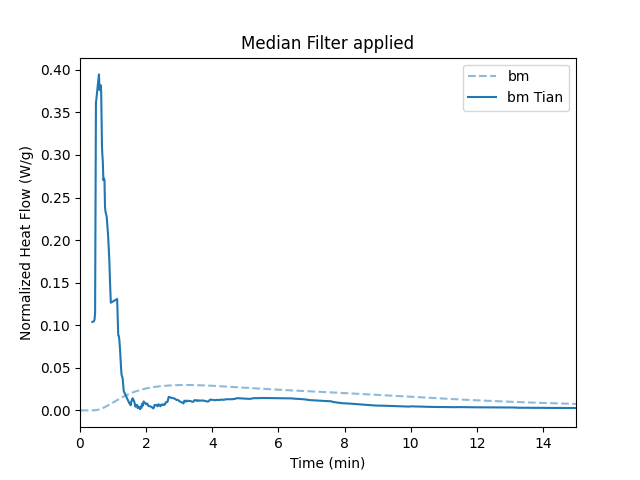
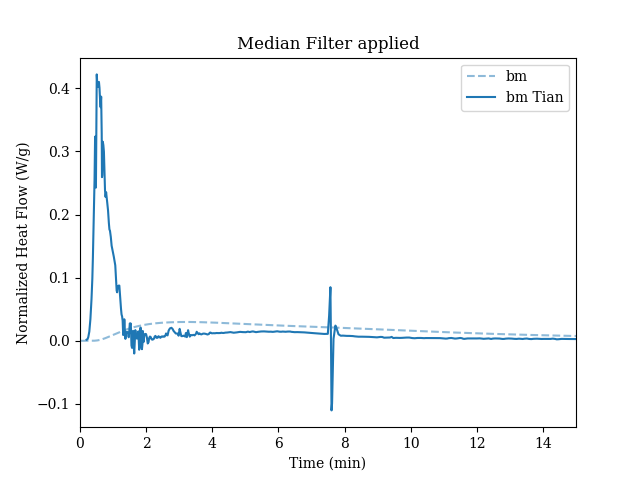
updated asset files

diff --git a/calocem/measurement.py b/calocem/measurement.py
@@ -23,7 +23,7 @@ from .analysis import (
     PeakAnalyzer,
     SlopeAnalyzer,
 )
-from .data_processing import DataCleaner, DataNormalizer, MetadataAggregator, SampleIterator
+from .data_processing import DataCleaner, DataNormalizer, HeatFlowProcessor, MetadataAggregator, SampleIterator
 from .exceptions import AutoCleanException, ColdStartException, DataProcessingException
 from .file_io import DataPersistence, FolderDataLoader
 from .plotting import SimplePlotter
@@ -1651,6 +1651,60 @@ class Measurement:
         self._data = DataNormalizer.normalize_sample_to_mass(
             self._data, sample_short, mass_g, show_info
         )
+
+    def apply_tian_correction(
+        self, processparams: Optional[ProcessingParameters] = None
+    ) -> None:
+        """
+        Apply Tian correction to the heat flow data.
+
+        Corrects the measured heat flow for the thermal inertia of the calorimeter
+        using one or two time constants (tau1, tau2) from processparams.
+
+        Single time constant (tau2 = None):
+            hf_corrected = dHF/dt * tau1 + HF
+
+        Dual time constants:
+            hf_corrected = dHF/dt * (tau1 + tau2) + d²HF/dt² * tau1*tau2 + HF
+
+        Results are written to three new columns:
+        - ``normalized_heat_flow_w_g_tian``
+        - ``gradient_normalized_heat_flow_w_g``
+        - ``normalized_heat_j_g_tian``
+
+        Parameters
+        ----------
+        processparams : ProcessingParameters, optional
+            Processing parameters containing time_constants.tau1 and
+            time_constants.tau2. Uses instance processparams if not provided.
+        """
+        from scipy import integrate
+
+        if processparams is None:
+            processparams = self._processparams
+
+        for s, sample_data in SampleIterator.iter_samples(self._data):
+            processor = HeatFlowProcessor(processparams)
+            gradient, curvature = processor.calculate_heatflow_derivatives(sample_data)
+
+            hf = sample_data["normalized_heat_flow_w_g"].to_numpy()
+            x = sample_data["time_s"].to_numpy()
+            tau1 = processparams.time_constants.tau1
+
+            if processparams.time_constants.tau2 is None:
+                norm_hf = gradient * tau1 + hf
+            else:
+                tau2 = processparams.time_constants.tau2
+                norm_hf = gradient * (tau1 + tau2) + curvature * tau1 * tau2 + hf
+
+            mask = self._data["sample"] == s
+            self._data.loc[mask, "normalized_heat_flow_w_g_tian"] = norm_hf
+            self._data.loc[mask, "gradient_normalized_heat_flow_w_g"] = gradient
+            self._data.loc[mask, "normalized_heat_j_g_tian"] = (
+                integrate.cumulative_trapezoid(
+                    np.nan_to_num(norm_hf), x=x, initial=0
+                )
+            )
 
     def add_metadata_source(
         self,

diff --git a/calocem/data_processing.py b/calocem/data_processing.py
@@ -10,6 +10,7 @@ from typing import Optional
 import numpy as np
 import pandas as pd
 from scipy import signal
+from scipy.interpolate import UnivariateSpline
 from scipy.ndimage import median_filter
 
 from .exceptions import DataProcessingException
@@ -129,22 +130,45 @@ class HeatFlowProcessor:
         except Exception as e:
             raise DataProcessingException("apply_rolling_mean", e)
 
+    def _smooth_derivative(
+        self, values: np.ndarray, time: np.ndarray, smoothing: float
+    ) -> np.ndarray:
+        """Apply median filter and/or spline smoothing to a derivative array."""
+        if self.processparams.median_filter.apply:
+            values = median_filter(values, size=self.processparams.median_filter.size)
+
+        if self.processparams.spline_interpolation.apply:
+            mask = np.isfinite(values)
+            spline = UnivariateSpline(time[mask], values[mask], k=3, s=smoothing, ext=1)
+            values = spline(time)
+
+        return values
+
     def calculate_heatflow_derivatives(
         self,
         data: pd.DataFrame,
         time_col: str = "time_s",
         target_col: str = "normalized_heat_flow_w_g",
     ) -> tuple[np.ndarray, np.ndarray]:
-        """Calculate gradient and curvature of heat flow data."""
+        """
+        Calculate gradient and curvature of heat flow data.
+
+        If processparams.median_filter.apply or processparams.spline_interpolation.apply
+        are set, smoothing is applied to each derivative before the next one is computed.
+        """
         try:
             time = data[time_col].to_numpy()
-            heat_flow = data[target_col].to_numpy()
+            heat_flow = np.nan_to_num(data[target_col].to_numpy())
 
-            # Calculate first derivative (gradient)
             gradient = np.gradient(heat_flow, time)
+            gradient = self._smooth_derivative(
+                gradient, time, self.processparams.spline_interpolation.smoothing_1st_deriv
+            )
 
-            # Calculate second derivative (curvature)
             curvature = np.gradient(gradient, time)
+            curvature = self._smooth_derivative(
+                curvature, time, self.processparams.spline_interpolation.smoothing_2nd_deriv
+            )
 
             return gradient, curvature
 
@@ -189,7 +213,7 @@ class HeatFlowProcessor:
             result_data = data.copy()
             if self.processparams.median_filter.apply:
                 result_data[target_col] = median_filter(
-                    result_data[target_col], size=3  # Default kernel size
+                    result_data[target_col], size=self.processparams.median_filter.size
                 )
 
             return result_data
